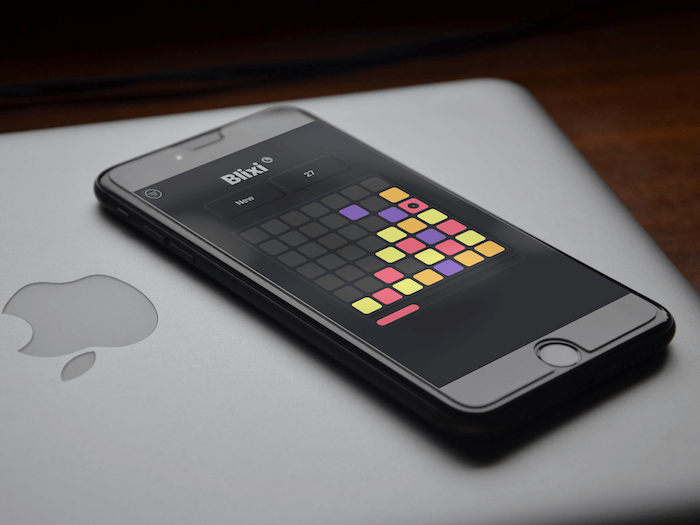
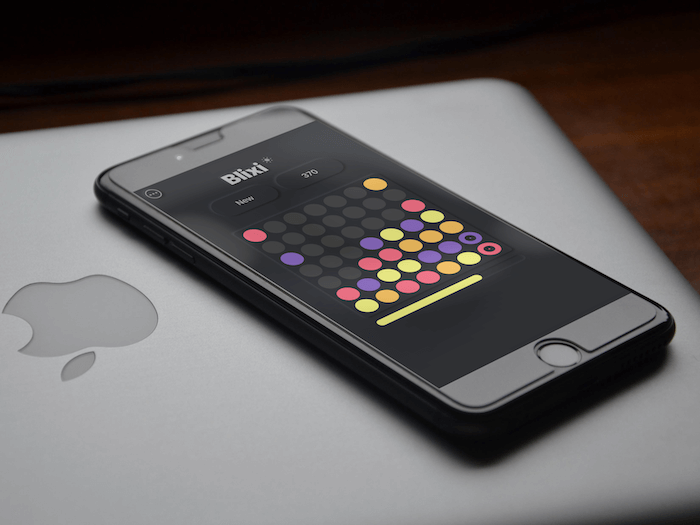
new blixi

diff --git a/index.html b/index.html
@@ -62,7 +62,7 @@
                     <a class="product-frame-wrapper" href="https://itunes.apple.com/app/id1553087665" target="_blank">
                     <div class="product-frame" style="background-image: url('img/home-product8.png')"></div></a>
                     <div class="product-description">
-                        <b>Blixi</b> is the sequel to Tvinnr. Relaxing puzzle game with beautiful neumorphic design. Swipe & merge the blocks.
+                        <b>Blixi</b> is the sequel to Tvinnr. Relaxing puzzle game with beautiful neumorphic design. Swipe & merge the circles.
                     </div>
                 </div>
                 <div class="product-item u-is-invisible js-revealGallery">
